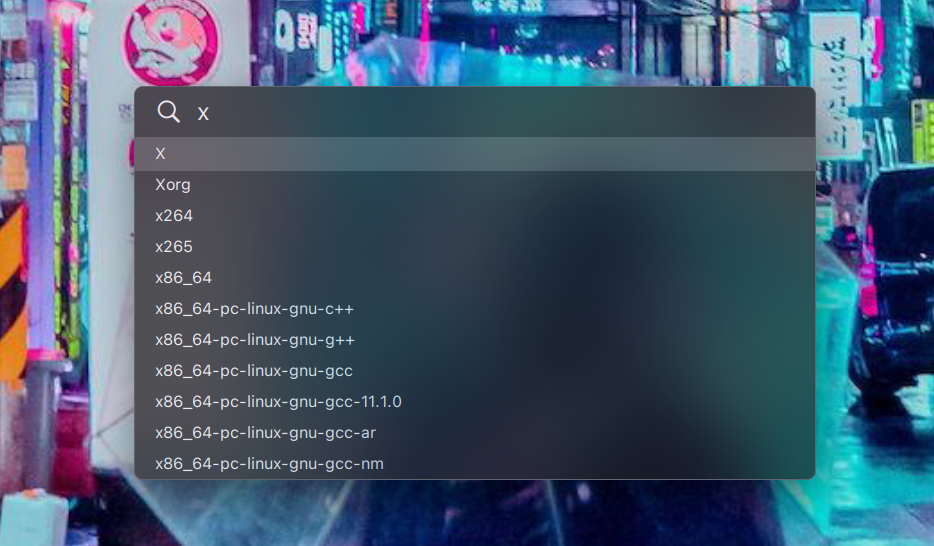
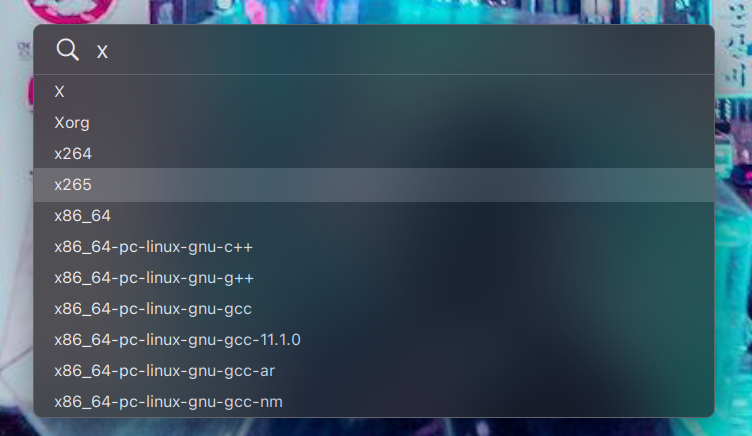
Added menuunderline to cwm-menu-customizations

diff --git a/README.md b/README.md
@@ -45,6 +45,7 @@ Adds a multitude of options to customize the look and feel of the menus:
 * `menutitle type string`: Override the default title of the menu type with string.  The type can be one of `application` `exec` `group`, `label`, `ssh`, `window` or `wm`.
 * `menutitlefontname font`: If set, it overrides the default `font` setting for the menu title and the search phrase.
 * `menutitleheight pixels`: Set the height of the menu header to pixels.  If not set, it defaults to the height of the `menutitlefontname` or `fontname`.
+* `menuunderline yes|no`: If enabled, it draws a line under all menu titles if the number of displayed items is greater than zero. Defaults to no.
 * `menuwidth pixels`: Set width of the menu to pixels.  If not set, it defaults to the widest menu item plus twice the `menuindent` if set.
 
 ![cwm-menu-customization](assets/cwm-menu-customization.png)
